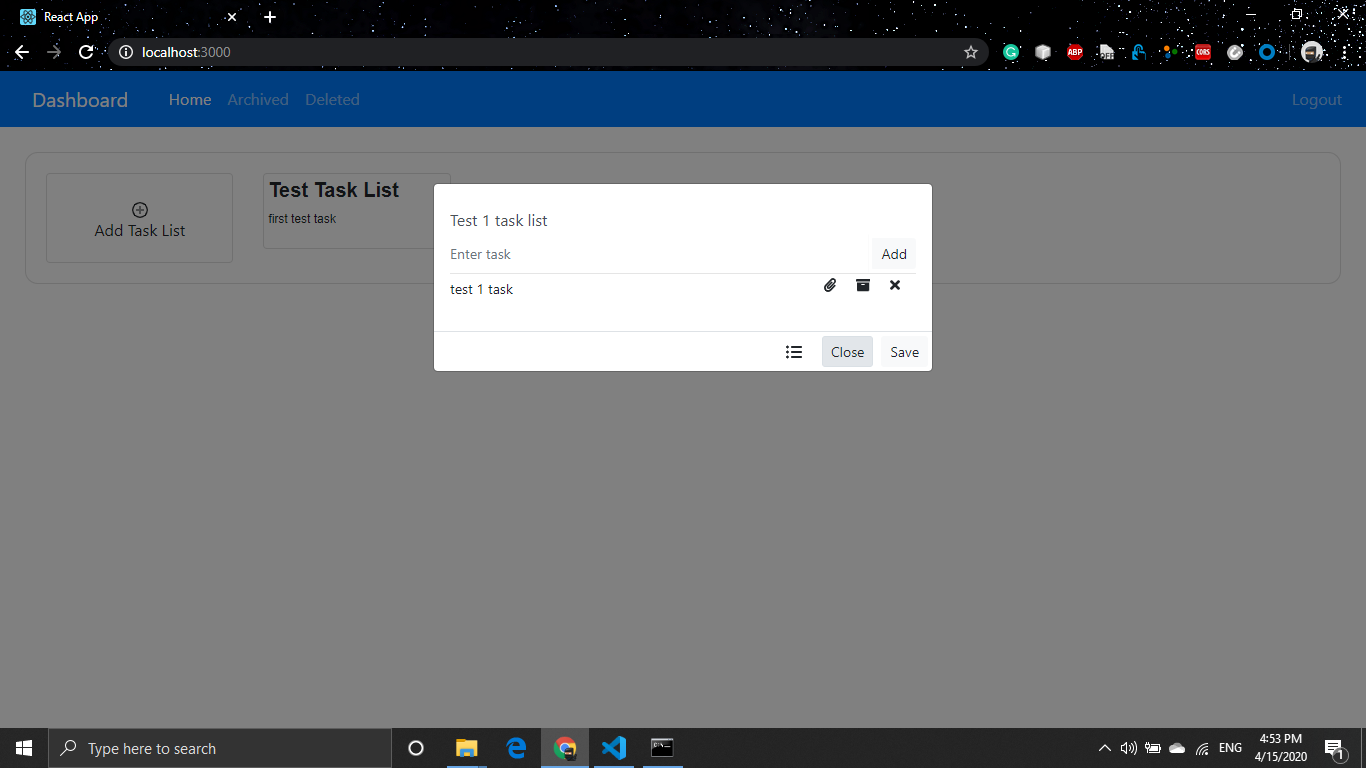
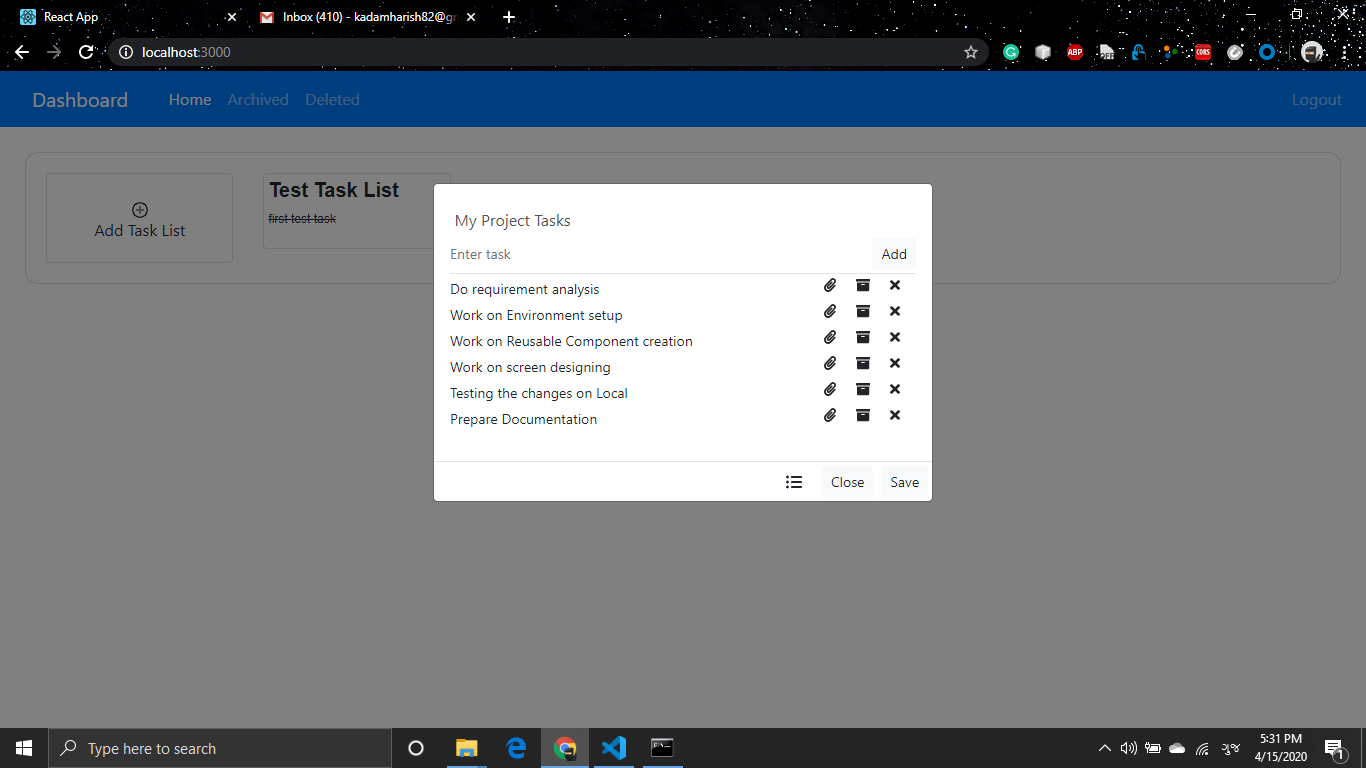
minor changes

diff --git a/src/utils/task-util.js b/src/utils/task-util.js
@@ -74,7 +74,7 @@ const TaskImageList = ({ tasks, from }) => {
         return (
             val ? <div key={key} style={{ marginBottom: '2px' }} className="media justify-content-between">
                 <div className="media-body ">
-                    {item.text}
+                    {item.isCompleted ? <del>{item.text}</del> : item.text}
                 </div>
                 <div className="media-right">
                     {item.img ? <Image url={item.img} ></Image> : ''}
@@ -183,7 +183,7 @@ export const CustomCheckbox = ({ from, newTaskList, onCheckChange, onTaskDelete,
                             <input key={key} type="checkbox" className="form-check-input" checked={item.isCompleted} onChange={() => { onCheckChange(newTaskList, item) }} id={`defaultCheck` + key} />
                             {item.img ? <Image url={item.img} ></Image> : ''}
                             <label htmlFor={`defaultCheck` + key}>
-                                {item.text}
+                                {item.isCompleted ? <del>{item.text}</del> : item.text}
                             </label>
                         </div>
                         <div className="media-body">
